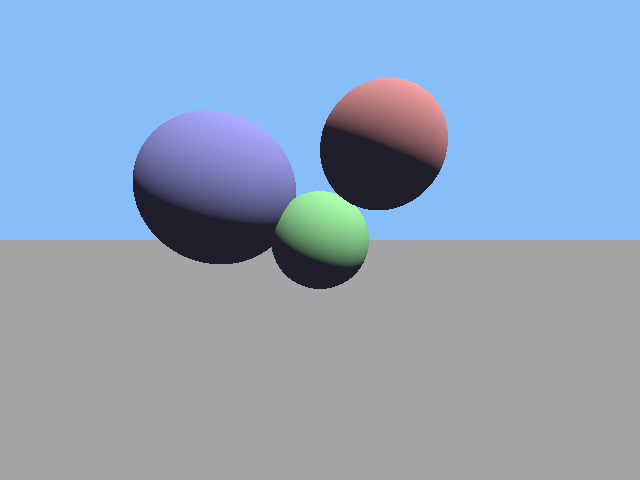
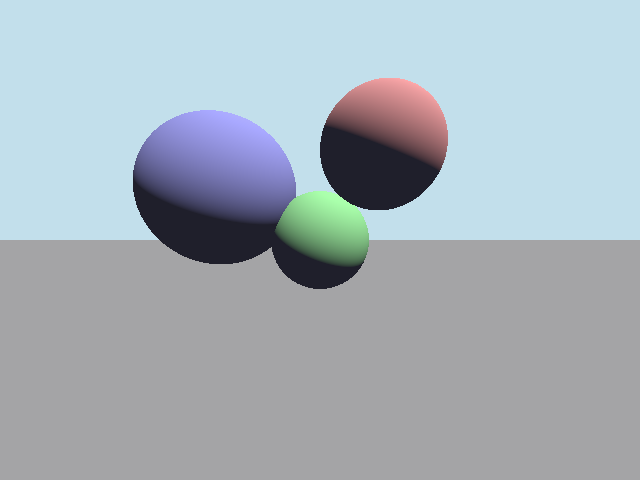
allow a sky color to be specified in a scene description

diff --git a/src/color.rs b/src/color.rs
@@ -11,6 +11,9 @@ fn gamma_decode(encoded: f32) -> f32 {
   encoded.powf(GAMMA)
 }
 
+/**
+ * A color with red, green, and blue components.
+ */
 #[derive(Serialize, Deserialize, Debug, Clone, Copy)]
 pub struct Color {
   pub red: f32,
@@ -19,6 +22,7 @@ pub struct Color {
 }
 
 impl Color {
+  /** Pure black */
   pub fn black() -> Color {
     Color {
       red: 0.0,
@@ -27,6 +31,16 @@ impl Color {
     }
   }
 
+  /** Pure white */
+  pub fn white() -> Color {
+    Color {
+      red: 1.0,
+      green: 1.0,
+      blue: 1.0,
+    }
+  }
+
+  /** Clamp a color's red green, and blue channels to the range of 0.0 to 1.0 inclusive. */
   pub fn clamp(&self) -> Color {
     Color {
       red: self.red.min(1.0).max(0.0),
@@ -49,6 +63,48 @@ impl Color {
       red: gamma_decode((rgba.data[0] as f32) / 255.0),
       green: gamma_decode((rgba.data[1] as f32) / 255.0),
       blue: gamma_decode((rgba.data[2] as f32) / 255.0),
+    }
+  }
+
+  /**
+   * Creates a Color from a 32-bit hex value where each bye corresponds to
+   * red, green, blue, and alpha respectively.
+   *
+   * ## Example
+   *
+   * ```rust
+   * # use fever_ray::color::Color;
+   * let pale_violet_red = 0xDB7093FF;
+   * let color = Color::from_rgba_hex(pale_violet_red);
+   * assert_eq!(color, Color { red: 0.858823529, green: 0.439215686, blue: 0.576470588 });
+   * ```
+   */
+  pub fn from_rgba_hex(hex: u32) -> Color {
+    Color {
+      red: ((hex >> 24) as f32) / 255.0,
+      green: (((hex & 0xFF0000) >> 16) as f32) / 255.0,
+      blue: (((hex & 0xFF00) >> 8) as f32) / 255.0,
+    }
+  }
+
+  /**
+   * Creates a Color from a 24-bit hex value where each byte corresponds to
+   * red, green, and blue respectively.
+   *
+   * ## Example
+   *
+   * ```rust
+   * # use fever_ray::color::Color;
+   * let pale_violet_red = 0xDB7093;
+   * let color = Color::from_rgb_hex(pale_violet_red);
+   * assert_eq!(color, Color { red: 0.858823529, green: 0.439215686, blue: 0.576470588 });
+   * ```
+   */
+  pub fn from_rgb_hex(hex: u32) -> Color {
+    Color {
+      red: ((hex >> 16) as f32) / 255.0,
+      green: (((hex & 0xFF00) >> 8) as f32) / 255.0,
+      blue: ((hex & 0xFF) as f32) / 255.0,
     }
   }
 }
@@ -76,6 +132,7 @@ impl ops::Mul<f32> for Color {
     }
   }
 }
+
 impl ops::Mul<Color> for f32 {
   type Output = Color;
   fn mul(self, other: Color) -> Color {
@@ -91,5 +148,44 @@ impl ops::Add for Color {
       blue: self.blue + other.blue,
       green: self.green + other.green,
     }
+  }
+}
+
+impl PartialEq for Color {
+  fn eq(&self, other: &Color) -> bool {
+    self.red == other.red && self.blue == other.blue && self.green == other.green
+  }
+}
+
+impl Eq for Color {}
+
+#[cfg(test)]
+mod tests {
+  use crate::color::Color;
+
+  #[test]
+  fn test_from_rgba_hex() {
+    let magenta = 0xFF00FF00;
+    assert_eq!(
+      Color::from_rgba_hex(magenta),
+      Color {
+        red: 1.0,
+        green: 0.0,
+        blue: 1.0
+      }
+    );
+  }
+
+  #[test]
+  fn test_from_rgb_hex() {
+    let magenta = 0xFF00FF;
+    assert_eq!(
+      Color::from_rgb_hex(magenta),
+      Color {
+        red: 1.0,
+        green: 0.0,
+        blue: 1.0
+      }
+    );
   }
 }

diff --git a/src/lib.rs b/src/lib.rs
@@ -25,11 +25,7 @@ pub fn render(config: &Config) -> DynamicImage {
       let intersection = config.scene.trace(&ray);
       let color = match intersection {
         Some(ref i) => get_color(&config, &ray, &i),
-        None => Color {
-          red: 0.25,
-          green: 0.52,
-          blue: 0.95,
-        },
+        None => config.scene.sky.color,
       };
 
       image.put_pixel(x, y, color.to_rgba());

diff --git a/src/scene.rs b/src/scene.rs
@@ -46,7 +46,13 @@ pub struct DirectionalLight {
 }
 
 #[derive(Serialize, Deserialize, Debug)]
+pub struct Sky {
+  pub color: Color,
+}
+
+#[derive(Serialize, Deserialize, Debug)]
 pub struct Scene {
-  pub objects: Vec<Object>,
+  pub sky: Sky,
   pub light: DirectionalLight,
+  pub objects: Vec<Object>,
 }
